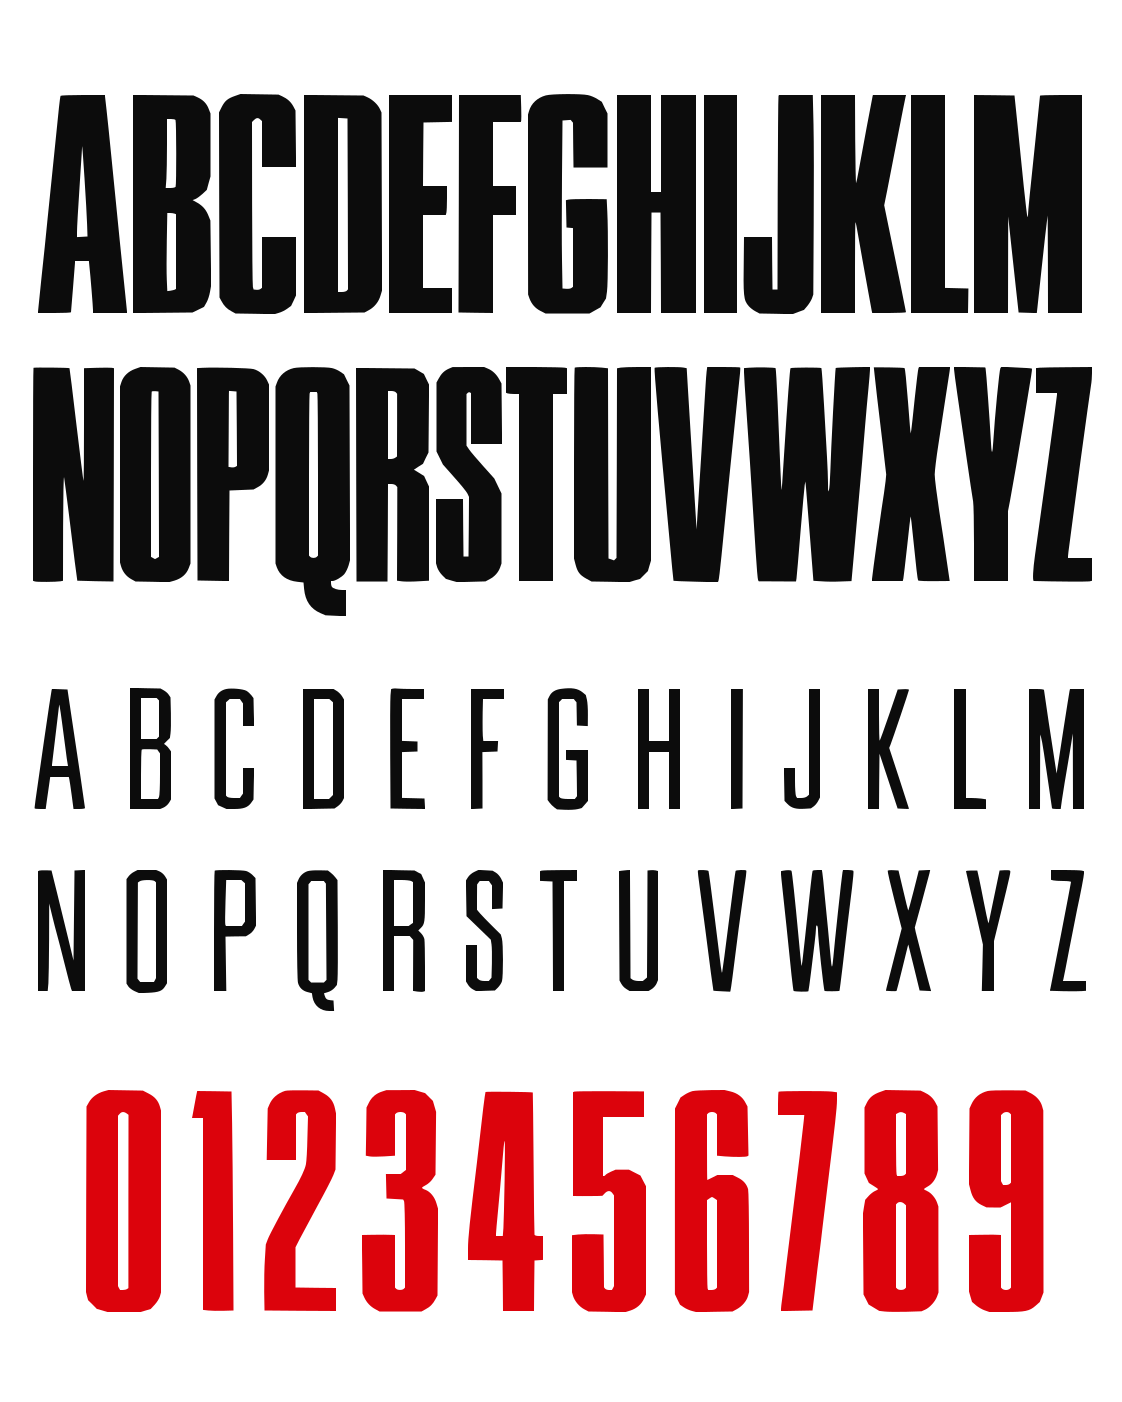
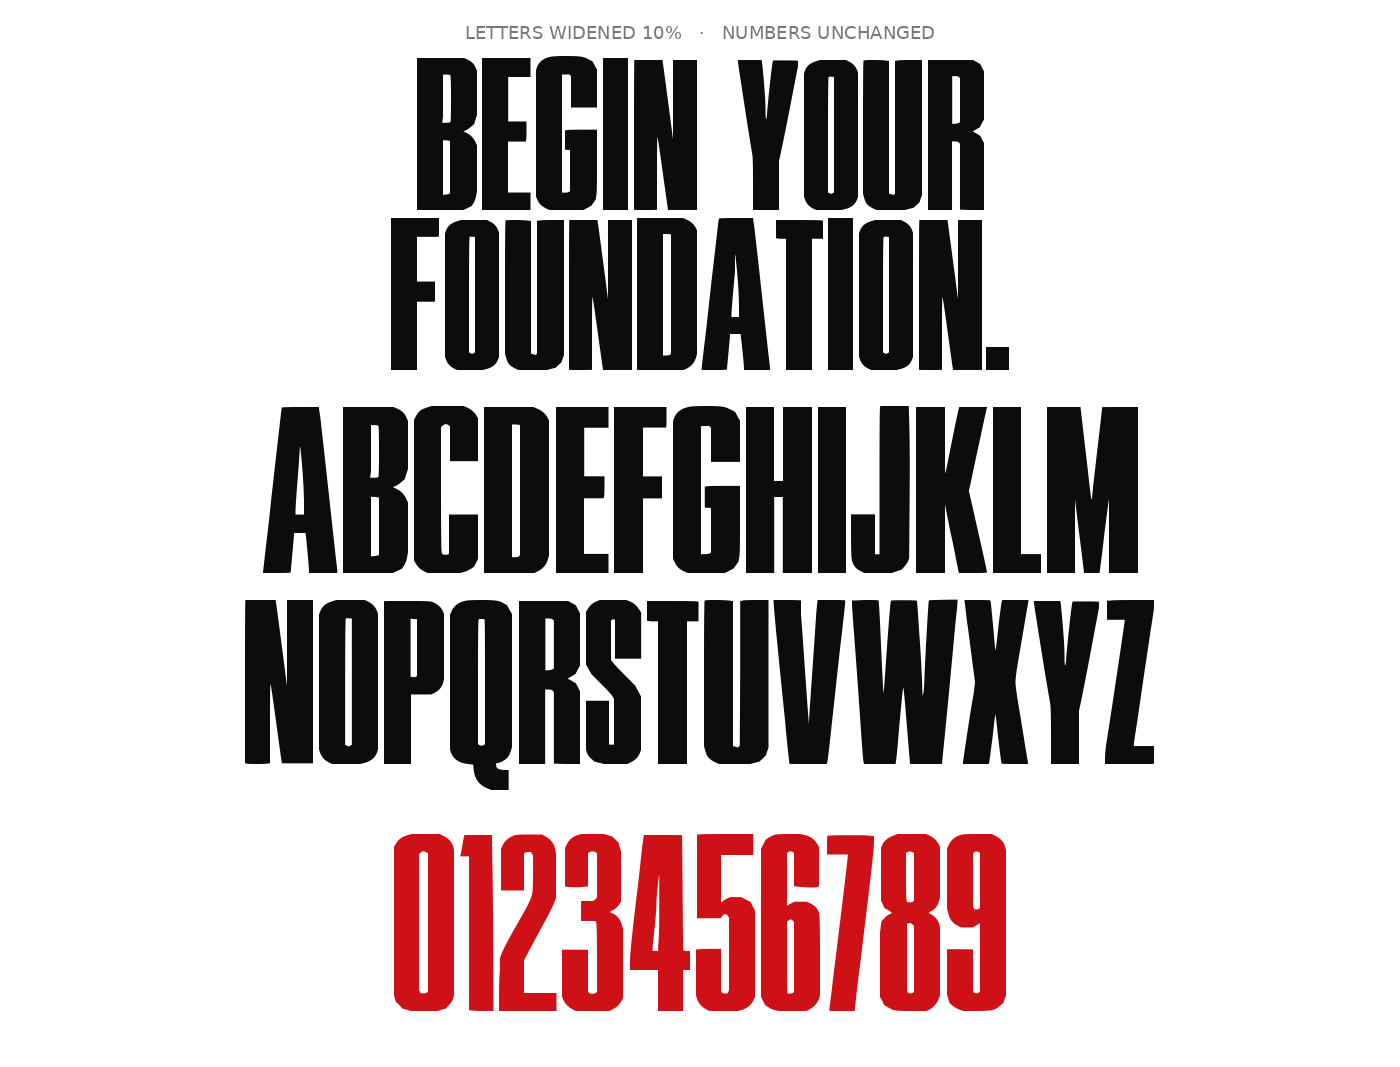
Widen correspondence display letters 10 percent.
Numbers stay at the traced width. The review sheet shows the wider letters with the same red numerals.

diff --git a/public/site00-correspondence-type-authority/v1/09_REVIEW/index.html b/public/site00-correspondence-type-authority/v1/09_REVIEW/index.html
@@ -29,13 +29,13 @@
 <body>
 <header>
   <h1>SITE 00 · CORRESPONDENCE TYPE AUTHORITY V1</h1>
-  <p>The specimen sheet is traced from the founder’s alphabet sheet: heavy A–Z, light A–Z, and red 0–9. Mean silhouette match is 0.991. Nothing on that sheet is derived.</p>
+  <p>The letters and numbers were traced from the founder’s alphabet sheet (mean silhouette match 0.991). On this review sheet the letters are 10% wider. The numbers are the traced width.</p>
 </header>
 <main>
   <section>
     <h2>Specimen sheet</h2>
-    <p>Traced from the attached alphabet sheet. <a href="sheet.html">Open it on its own</a></p>
-    <figure><img class="full" style="width:min(920px,100%)" src="SHEET.png" alt="A through Z and numerals 0 through 9"/></figure>
+    <p>Letters widened 10%. Numbers unchanged. <a href="sheet.html">Open it on its own</a></p>
+    <figure><img class="full" style="width:min(920px,100%)" src="SHEET.png?v=1.1" alt="A through Z widened 10 percent, then red numerals 0 through 9 unchanged"/></figure>
   </section>
   <section>
     <h2>Full reference</h2>

diff --git a/public/site00-correspondence-type-authority/v1/09_REVIEW/sheet.html b/public/site00-correspondence-type-authority/v1/09_REVIEW/sheet.html
@@ -10,6 +10,6 @@
 </style>
 </head>
 <body>
-<img src="SHEET.png" alt="SITE 00 correspondence display. A through Z, then red numerals 0 through 9."/>
+<img src="SHEET.png?v=1.1" alt="SITE 00 correspondence display. Letters widened 10 percent. A through Z, then red numerals 0 through 9 unchanged."/>
 </body>
 </html>

diff --git a/scripts/correspondence-type-authority/build_display_font.py b/scripts/correspondence-type-authority/build_display_font.py
@@ -19,6 +19,8 @@ OUT_WOFF = ROOT / 'public/site00-correspondence-studio/fndatn-01/fonts/site00-co
 CAP = 800
 LSB = 14
 RSB = 14
+# Letters only. Numbers stay at the traced width.
+LETTER_WIDEN = 1.10
 
 meta = json.loads((PACK / 'metrics.json').read_text())
 glyphs = meta['glyphs']
@@ -40,10 +42,10 @@ font.fontname = 'SITE00Display-Heavy'
 font.fullname = 'SITE 00 Display Heavy'
 font.weight = 'Heavy'
 font.copyright = 'SITE 00 correspondence reconstruction of the founder specimen. For SITE 00 correspondence only.'
-font.version = '1.0'
+font.version = '1.1'
 font.encoding = 'UnicodeFull'
 
-def place(ch: str, svg: Path, px_h: int, desc_px: float) -> None:
+def place(ch: str, svg: Path, px_h: int, desc_px: float, widen: float = 1.0) -> None:
     g = font.createChar(ord(ch))
     g.importOutlines(str(svg))
     xmin, ymin, xmax, ymax = g.boundingBox()
@@ -55,19 +57,22 @@ def place(ch: str, svg: Path, px_h: int, desc_px: float) -> None:
     xmin, ymin, xmax, ymax = g.boundingBox()
     desc = desc_px * scale_px
     g.transform((1, 0, 0, 1, LSB - xmin, -desc - ymin))
+    if widen != 1.0:
+        xmin, ymin, xmax, ymax = g.boundingBox()
+        g.transform((widen, 0, 0, 1, xmin * (1 - widen), 0))
     xmin, ymin, xmax, ymax = g.boundingBox()
     g.width = int(round(xmax + RSB))
     print(f'{ch} width {g.width} box {tuple(round(v) for v in g.boundingBox())}')
 
 for g in heavy:
     desc = q_desc_px if g['char'] == 'Q' else 0
-    place(g['char'], ROOT / 'public/site00-correspondence-type-authority/v1' / g['svg'], g['height'], desc)
+    place(g['char'], ROOT / 'public/site00-correspondence-type-authority/v1' / g['svg'], g['height'], desc, LETTER_WIDEN)
 
 for g in nums:
     place(g['char'], ROOT / 'public/site00-correspondence-type-authority/v1' / g['svg'], g['height'], 0)
 
 space = font.createChar(ord(' '))
-space.width = int(round(CAP * 0.22))
+space.width = int(round(CAP * 0.22 * LETTER_WIDEN))
 
 # Square period. Not on the specimen. Sits on the baseline at stem width.
 period = font.createChar(ord('.'))
@@ -83,7 +88,7 @@ period.width = LSB + s + RSB
 # Apostrophe for WE'VE. Not on the specimen. A stem-weight mark at the cap.
 apos = font.createChar(ord("'"))
 pen = apos.glyphPen()
-w = int(round(CAP * 0.08))
+w = int(round(CAP * 0.08 * LETTER_WIDEN))
 h = int(round(CAP * 0.22))
 top = CAP
 pen.moveTo((LSB, top - h))

diff --git a/motherboard/MEMORY.md b/motherboard/MEMORY.md
@@ -16374,3 +16374,13 @@ Summary of the whole conversation in this chat.
 - **Font:** `SITE 00 Display` is built from the heavy A–Z and the red 0–9 traces. File: `public/site00-correspondence-studio/fndatn-01/fonts/site00-correspondence-display.woff2`. Rebuild with `fontforge -lang=py -script scripts/correspondence-type-authority/build_display_font.py` after `pip install brotli` if woff2 encoding is missing.
 - **Where it applies:** FNDATN-01 headlines, section titles, the mast `SITE 00`, and the editorial numbers (01 02 03 and the other step counts). Body, labels, and the red CTA stay Saira Semi Condensed. The apostrophe and the square period are not on the specimen; they are in the face so `WE'VE` and the red stop stay in the same family.
 - **Conventions:** Do not put this face on other brands or on body copy. Gmail and Outlook still fall back. Draft PR #1617 stays unmerged.
+
+---
+
+## 2026-10-12 — Letters widened 10% on the correspondence display
+
+- **Context:** Same correspondence-type chat. The founder said the numbers are fine and the letters are a bit too narrow, and asked for the letters widened horizontally just a little, delivered on one specimen sheet.
+- **Change:** `LETTER_WIDEN = 1.10` in `scripts/correspondence-type-authority/build_display_font.py` scales A–Z (and the space and apostrophe) about the left ink edge after baseline placement. Numerals stay at the traced width. The square period stays a square. Font version is 1.1. A advances 355 → 387 units. Numeral advances are unchanged (0 is 303).
+- **Sheet:** `public/site00-correspondence-type-authority/v1/09_REVIEW/SHEET.png` is rendered from the rebuilt face: BEGIN YOUR / FOUNDATION., A–Z, red 0–9. The unwidened traces stay in `11_SPECIMEN_TRACE/`. Do not rerun `trace_specimen_sheet.py` after a widen; it overwrites `09_REVIEW/SHEET.png` with the unwidened paste.
+- **Pack:** The same woff2 is `public/site00-correspondence-studio/fndatn-01/fonts/site00-correspondence-display.woff2`, so FNDATN-01 headers use the wider letters and the numbers stay as they were. HTML did not need a regen.
+- **Conventions:** Widen letters only. Do not scale the numerals when the founder says the numbers are fine. Draft PR #1617 stays unmerged.
